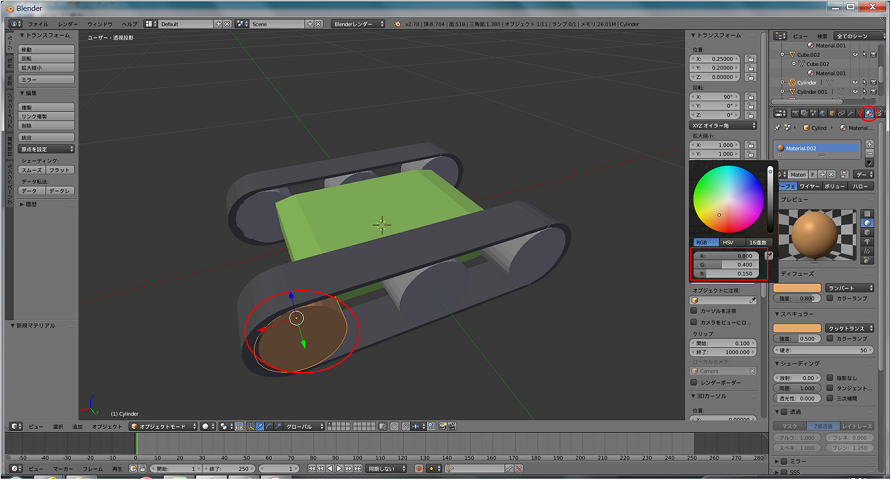
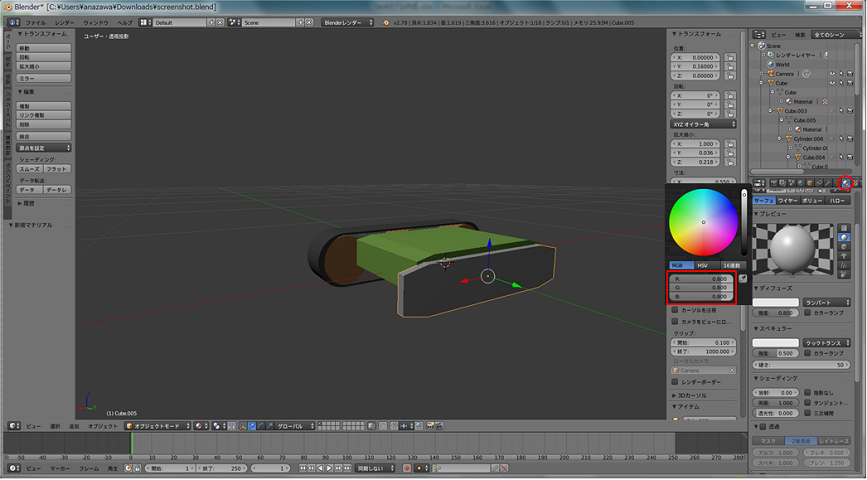
Fix crawler and light

Changed region(s): [[0.0, 0.0, 1.0, 1.0], [0.2491, 0.3125, 0.654, 0.7812]]

diff --git a/ja/handling-models/modelfile/modelfile-blender.rst b/ja/handling-models/modelfile/modelfile-blender.rst
@@ -60,7 +60,7 @@ Blenderの初期設定
 
   .. image:: images/Chassis2.png
 
-3. 「3Dビューヘッダ」⇛「ビュー」⇛「プロパティ」を選択し、寸法(x:0.45, y:0.3, z:0.1)の設定を行います。
+3. 「3Dビューヘッダ」⇛「ビュー」⇛「プロパティ」を選択し、寸法(x:0.45, y:0.3, z:0.1)、位置(x:0.0, y:0.0, z:0.025)を設定します。
 
   .. image:: images/Chassis3.png
 
@@ -85,14 +85,14 @@ Blenderの初期設定
 
   .. image:: images/Chassis8.png   
 
-クローラーの作成
---------
+クローラの作成
+-------
 
 1. 「3Dビューヘッダ」⇛「追加」⇛「メッシュ」⇛「立方体」よりモデルを追加します。
 
   .. image:: images/Crawler1.png
 
-2. 「プロパティ」⇛「トランスフォーム」パネルの寸法(x:0.5, y:0.1, z:0.16)、位置(x:0.0, y:0.2, z:0.0)を設定します。
+2. 「プロパティ」⇛「トランスフォーム」パネルの寸法(x:0.5, y:0.1, z:0.16)、位置(x:0.0, y:0.22, z:0.0)を設定します。
 
   .. image:: images/Crawler2.png
 
@@ -108,11 +108,11 @@ Blenderの初期設定
 
   .. image:: images/Crawler5.png
 
-6. クローラーに丸みを付けるために、「3Dビューヘッダ」⇛「追加」⇛「円柱」よりモデルの追加をします。
+6. クローラに丸みを付けるために、「3Dビューヘッダ」⇛「追加」⇛「円柱」よりモデルの追加をします。
 
   .. image:: images/Crawler6.png
 
-7. 「円柱」パネルの頂点:32、半径:0.08、深度:0.1、位置(x:0.2505, y:0.2, z:0.0)、回転(x:90, y:0, z:0)に設定します。
+7. 「円柱」パネルの頂点:32、半径:0.08、深度:0.1、位置(x:0.2505, y:0.22, z:0.0)、回転(x:90, y:0, z:0)に設定します。
 
   .. image:: images/Crawler7.png
 
@@ -147,7 +147,7 @@ Blenderの初期設定
 
   .. image:: images/Crawler14.png
 
-15. 「円柱」パネルの頂点:32、半径:0.075、深度:0.1に設定し、「プロパティ」⇛「トランスフォオーム」パネルより位置(x:0.25, y:0.2, z:0.0)、回転(x:90, y:0, z:0)を設定します。
+15. 「円柱」パネルの頂点:32、半径:0.075、深度:0.1に設定し、「プロパティ」⇛「トランスフォオーム」パネルより位置(x:0.25, y:0.22, z:0.0)、回転(x:90, y:0, z:0)を設定します。
 
   .. image:: images/Crawler15.png
 
@@ -155,26 +155,50 @@ Blenderの初期設定
 
   .. image:: images/Crawler16.png
 
-17. 左クローラー(ベルト部、ホイール部)を選択し、項番16と同様にオブジェクトの複製を行います。
-    次に、「プロパティ」⇛「トランスフォオーム」パネルより位置を設定したら、右クローラーの完成です。
+17. 左クローラ(ベルト部、ホイール部)を選択し、項番16と同様にオブジェクトの複製を行います。
+    次に、「プロパティ」⇛「トランスフォオーム」パネルより位置を設定したら、右クローラの完成です。
 
   .. image:: images/Crawler17.png
 
-18. 左クローラーのベルトを「右クリック」で選択し、「プロパティエディターヘッダ」⇛「マテリアル」の「新規」ボタンを押下したら、ディフューズ(R:0.128, G:0.128, B:0.128)、スペキュラー(R:0.128, G:0.128, B:0.128)を設定します。
+18. 「3Dビューヘッダ」⇛「追加」⇛「メッシュ」⇛「立方体」よりモデルを追加します。
+    次に、「プロパティ」⇛「トランスフォーム」パネルの寸法(x:0.55, y:0.02, z:0.12)、位置(x:0.0, y:0.16, z:0.0)を設定します。
 
   .. image:: images/Crawler18.png
-
-19. 右クローラーのベルトを「右クリック」で選択し、「プロパティエディターヘッダ」⇛「マテリアル」の「新規」ボタンの左にあるマテリアルアイコンを「左クリック」し、作成したマテリアル一覧から項番18で作成したマテリアルを設定します。
+  
+19. 「3Dビューヘッダ」⇛「編集モード」に変更し、「3Dビューヘッダ」⇛「辺選択」を選択します。
+    次に、図の通り4辺を「Shift+右クリック」で選択し、「3Dビューヘッダ」⇛「メッシュ」⇛「辺」⇛「ベベル」を選択したら、「ベベル」パネルの量:0.07、セグメント:1を設定します。
 
   .. image:: images/Crawler19.png
-
-20. クローラーのホイールを「右クリック」で選択し、「プロパティエディターヘッダ」⇛「マテリアル」の「新規」ボタンを押下し、ディフューズ(R:0.8, G:0.4, B:0.15)、スペキュラー(R:0.8, G:0.4, B:0.15)を設定します。
+  
+20. 「3Dビューヘッダ」⇛「オブジェクトモード」に変更し、プレートを「右クリック」で選択したら、「プロパティエディターヘッダ」⇛「マテリアル」の「新規」ボタンを押下したら、ディフューズ(R:0.8, G:0.8, B:0.8)、スペキュラー(R:0.8, G:0.8, B:0.8)を設定します。
 
   .. image:: images/Crawler20.png
 
-21. 残りのクローラーのホイールも項番19と同様の手順で、作成したマテリアル一覧から項番20で作成したマテリアルを設定したら、クローラーの作成が完了です。
+21. 「3Dビューヘッダ」⇛「オブジェクト」⇛「オブジェクトの複製」を選択し、プレートを3枚複製します。
+    次に、左右のクローラに付ける外側のプレートの寸法(x:0.55, y:0.01, z:0.12)に変更したら、ホイールの中心を通るように図の通りに残りの3枚のプレートの位置を設定します。
 
   .. image:: images/Crawler21.png
+
+22. 左クローラのベルトを「右クリック」で選択し、「プロパティエディターヘッダ」⇛「マテリアル」の「新規」ボタンを押下したら、ディフューズ(R:0.128, G:0.128, B:0.128)、スペキュラー(R:0.128, G:0.128, B:0.128)を設定します。
+
+  .. image:: images/Crawler22.png
+
+23. 右クローラのベルトを「右クリック」で選択し、「プロパティエディターヘッダ」⇛「マテリアル」の「新規」ボタンの左にあるマテリアルアイコンを「左クリック」し、作成したマテリアル一覧から項番22で作成したマテリアルを設定します。
+
+  .. image:: images/Crawler23.png
+
+24. クローラのホイールを「右クリック」で選択し、「プロパティエディターヘッダ」⇛「マテリアル」の「新規」ボタンを押下し、ディフューズ(R:0.8, G:0.4, B:0.15)、スペキュラー(R:0.8, G:0.4, B:0.15)を設定します。
+
+  .. image:: images/Crawler24.png
+
+25. 残りのクローラのホイールも項番23と同様の手順で、作成したマテリアル一覧から項番24で作成したマテリアルを設定したら、クローラの作成が完了です。
+
+  .. image:: images/Crawler25.png
+  
+26. 「Shift+右クリック」でクローラ(ベルト、ホイール、プレート)を選択した後に、車体を「Shift+右クリック」で選択します。
+    次に、「3Dビューヘッダ」⇛「オブジェクト」⇛「親」⇛「オブジェクト」を選択し、「オブジェクト」を選択したら親子関係の設定が完了です。
+
+  .. image:: images/Crawler26.png
 
 砲塔(ヨー)の作成
 ---------
@@ -468,30 +492,64 @@ Blenderの初期設定
   .. image:: images/Light7.png
 
 8. 「3Dビューヘッダ」⇛「選択」⇛「円選択」を選択し、前方部の半球を選択します。
-   次に、「3Dビューヘッダ」⇛「メッシュ」⇛「押し出し」⇛「領域」を選択し、すぐに「X」キー、「S」キーを押下し「Shift」を押した状態でマウスを移動させ、半球を縮小させます。
-   同様の手順で、後方部の半球も縮小させます。
+   次に、「3Dビューヘッダ」⇛「メッシュ」⇛「削除」⇛「面」を選択し、半球を削除します。
    
   .. image:: images/Light8.png
-
-9. 「3Dビューヘッダ」⇛「オブジェクトモード」を選択し、ライトのフレームを選択します。
-    次に、「プロパティエディターヘッダ」⇛「マテリアル」の「新規」ボタンを押下し、ディフューズ(R:0.8, G:0.8, B:0.8)、スペキュラー(R:0.8, G:0.8, B:0.8)を設定します。
+  
+9. 「3Dビューヘッダ」⇛「選択」⇛「円選択」を選択し、後方部の半球を選択します。
+   次に、「3Dビューヘッダ」⇛「メッシュ」⇛「押し出し」⇛「領域」を選択し、すぐに「X」キー、「S」キーを押下し「Shift」を押した状態でマウスを移動させ、半球を縮小させます。
 
   .. image:: images/Light9.png
+  
+10. 「3Dビューヘッダ」⇛「編集モード」を選択し、「3Dビューヘッダ」⇛「追加」⇛「UV球」よりモデルを追加します。
+    次に、「UV球」パネルのセグメント:12、リング:8、サイズ:0.025、位置(x:-0.01, y:0.0, z:0.375)、回転(x:0, y:90, z:0)を設定します。
+   
+  .. image:: images/Light10.png
+  
+11. 「3Dビューヘッダ」⇛「選択」⇛「円選択」を選択し、前方部の半球を選択します。
+    次に、「3Dビューヘッダ」⇛「メッシュ」⇛「削除」⇛「面」を選択し、半球を削除します。
+   
+  .. image:: images/Light11.png
+  
+12. 「Shift+Alt+右クリック」で図の通り半球の2辺を選択します。
+    次に、「3Dビューヘッダ」⇛「メッシュ」⇛「辺ループ」⇛「辺ループのブリッジ」を選択し、2辺の間に面の作成をします。
+    
+  .. image:: images/Light12.png
+  
+13. 「3Dビューヘッダ」⇛「オブジェクトモード」に変更し、「3Dビューヘッダ」⇛「追加」⇛「メッシュ」⇛「UV球」を選択します。
+    次に、「UV球」パネルのセグメント:32、リング:24、サイズ:0.015、位置(x:-0.02, y:0.0, z:0.375)、回転(x:0, y:90, z:0)に設定します。
 
-10. 「3Dビューヘッダ」⇛「オブジェクトモード」を選択し、ライト点灯部を選択します。
+  .. image:: images/Light13.png
+
+14. 「3Dビューヘッダ」⇛「オブジェクトモード」を選択し、ライトのフレームを選択します。
+    次に、「プロパティエディターヘッダ」⇛「マテリアル」の「新規」ボタンを押下し、ディフューズ(R:0.8, G:0.8, B:0.8)、スペキュラー(R:0.8, G:0.8, B:0.8)を設定します。
+
+  .. image:: images/Light14.png
+  
+15. ライトの反射板を選択し、「プロパティエディターヘッダ」⇛「マテリアル」の「新規」ボタンの左にあるアイコンを選択します。
+    次に、マテリアルの一覧が表示されるので、ライトのフレーム作成時に設定したマテリアルを設定します。
+   
+  .. image:: images/Light15.png
+
+16. 「3Dビューヘッダ」⇛「オブジェクトモード」を選択し、ライト点灯部を選択します。
     次に、「プロパティエディターヘッダ」⇛「マテリアル」の「新規」ボタンを押下し、ディフューズ(R:1.0, G:1.0, B:0.4)、スペキュラー(R:1.0, G:1.0, B:0.4)、シェーディングの放射:1.0を設定したら、ライトの作成は完了です。
 
-  .. image:: images/Light10.png
+  .. image:: images/Light16.png
 
-11. 「3Dビューヘッダ」⇛「オブジェクトモード」を選択し、「右クリック」でライトのフレームを選択します。
+17. 「3Dビューヘッダ」⇛「オブジェクトモード」を選択し、「右クリック」でライトのフレームを選択します。
     次に、カメラを「Shift+右クリック」で選択し、「3Dビューヘッダ」⇛「オブジェクト」⇛「親」⇛「オブジェクト」を選択し、「オブジェクト」を選択したら親子関係の設定が完了です。
 
-  .. image:: images/Light11.png
+  .. image:: images/Light17.png
 
-12. 「3Dビューヘッダ」⇛「オブジェクトモード」を選択し、「右クリック」でライトの点灯部を選択します。
+18. 「3Dビューヘッダ」⇛「オブジェクトモード」を選択し、「右クリック」でライトの反射板を選択します。
     次に、ライトのフレームを「Shift+右クリック」で選択し、「3Dビューヘッダ」⇛「オブジェクト」⇛「親」⇛「オブジェクト」を選択し、「オブジェクト」を選択したら親子関係の設定が完了です。
 
-  .. image:: images/Light12.png
+  .. image:: images/Light18.png
+
+19. 「3Dビューヘッダ」⇛「オブジェクトモード」を選択し、「右クリック」でライト点灯部を選択します。
+    次に、ライトの反射板を「Shift+右クリック」で選択し、「3Dビューヘッダ」⇛「オブジェクト」⇛「親」⇛「オブジェクト」を選択し、「オブジェクト」を選択したら親子関係の設定が完了です。
+
+  .. image:: images/Light19.png
 
 シェーディングの設定
 ----------
